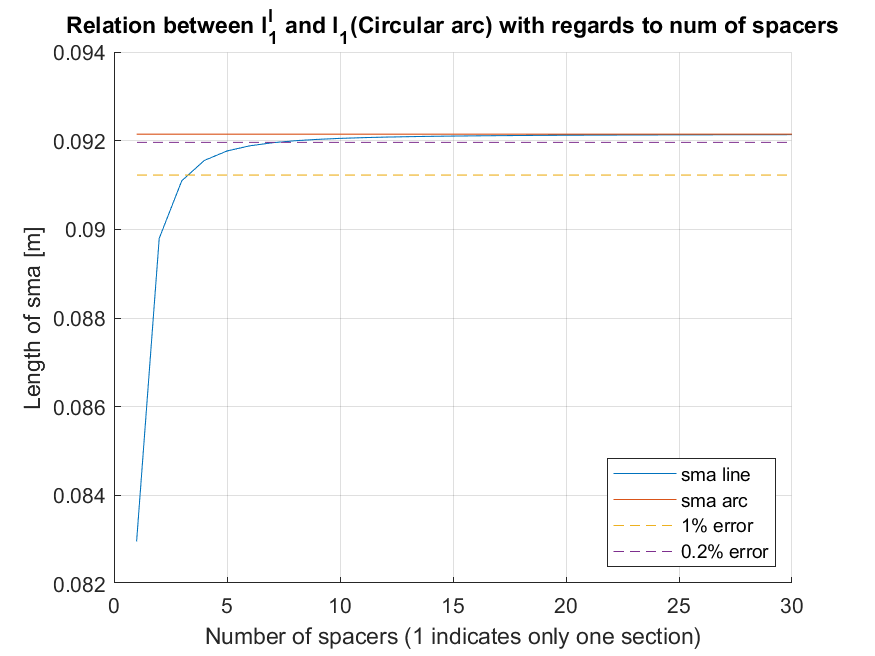
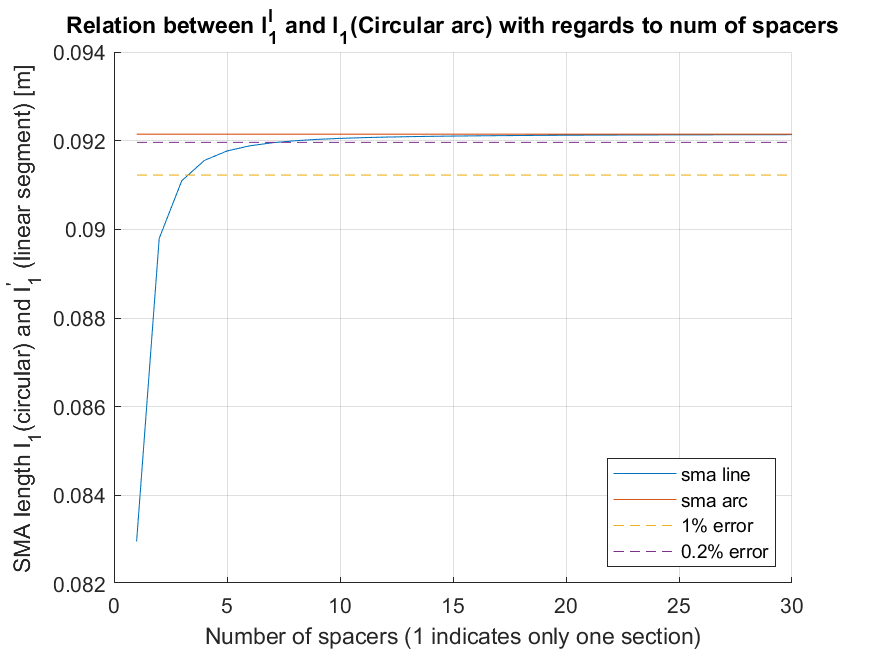
Inverse kinematics changed to l_1_prime

Changed region(s): [[0.0, 0.0915, 0.0617, 0.8841]]

diff --git a/Codes/CCSegment.m b/Codes/CCSegment.m
@@ -1,17 +1,17 @@
 % Constant curvature for one segment. beta is the segment angle and l is
 % the segment length.
 
-function T = CCSegment(beta, l)
+function T = CCSegment(alpha, l)
 
-if beta == 0  % singularity
+if alphja == 0  % singularity
     T = [1, 0, 0, 0; ...
          0, 1, 0, 0; ...
          0, 0, 1, l; ...
          0, 0, 0, 1];
 else
-    T = [  cos(beta)   0,   -sin(beta)    l * ((1 - cos(beta))/beta); ...
-           0,          1,    0,           0                         ; ...
-           sin(beta),  0,    cos(beta),   l * (sin(beta)/beta)      ; ...
-           0,          0,    0,           1                         ];
+    T = [  cos(alpha)   0,   -sin(alpha)    l * ((1 - cos(alpha))/alpha) ; ...
+           0,           1,    0,            0                            ; ...
+           sin(alpha),  0,    cos(alpha),   l * (sin(alpha)/alpha)       ; ...
+           0,           0,    0,            1                           ];
 end
 end

diff --git a/Codes/IKineSMA.m b/Codes/IKineSMA.m
@@ -1,14 +1,13 @@
 % Inverse kinematics for constant curvature assumption and assuming
 % constant distance between spacers
 % TODO have to check failure conditions
-function sma_lengths = IKineSMA(px, py, num_segments, L_nf, d)
-l_nf = L_nf/num_segments; % length of neutral fibre per section
-alpha = 2*atan2(px, py); % total section angle
-beta = alpha/num_segments;
-l_sma2 = d*beta + l_nf;
-l_sma1 = 2*l_nf - l_sma2;
-sma_lengths = [];
-for i = 1:num_segments
-    sma_lengths = [sma_lengths; [l_sma1, l_sma2]];
+function sma_lengths = IKineSMA(alpha, l_nf, d, num_spacers)
+if alpha == 0
+    l_1_prime = l_nf;
+    l_2_prime = l_nf;
+else
+    l_1_prime = ((l_nf-(alpha*d))*2*num_spacers*sin(alpha/(2*num_spacers)))/alpha;
+    l_2_prime = ((l_nf+(alpha*d))*2*num_spacers*sin(alpha/(2*num_spacers)))/alpha;
 end
+sma_lengths = [l_1_prime, l_2_prime];
 end

diff --git a/Codes/FKineSMA.m b/Codes/FKineSMA.m
@@ -1,10 +1,9 @@
 % Calculates Direct kinematics for the SMA continuum module given SMA
-% lengths in the format [[l11, l12]; [l21, l22]; ...], d which is the
-% attachment distance of the SMA wires from the neutral fibre and segment
-% lengths which are the neutral fibre lengths per section. 
+% length, d which is the attachment distance of the SMA wires from the 
+% neutral fibre and l_nf which is the neutral fibre length per section. 
 % Output is the transformation matrix from the base to the tip of the SMA
 % continuum module
 function T = FKineSMA(sma_length, d, l_nf)
-beta = (l_nf - sma_length)/d;
-T = CCSegment(beta, l_nf);
+alpha = (l_nf - sma_length)/d;
+T = CCSegment(alpha, l_nf);
 end

diff --git a/Codes/model_plots.m b/Codes/model_plots.m
@@ -45,7 +45,7 @@ plot(num_spacers, lin_sma_arr, num_spacers, l_1_arr,...
     num_spacers, point_per_line, '--')
 grid on
 xlabel("Number of spacers (1 indicates only one section)")
-ylabel("Length of sma [m]")
+ylabel("SMA length l_1(circular) and l_1^' (linear segment) [m]")
 title("Relation between l_1^l and l_1(Circular arc) with regards to num of spacers")
 lgd = legend('sma line', 'sma arc', '1% error', '0.2% error');
 lgd.Location = 'southeast';
